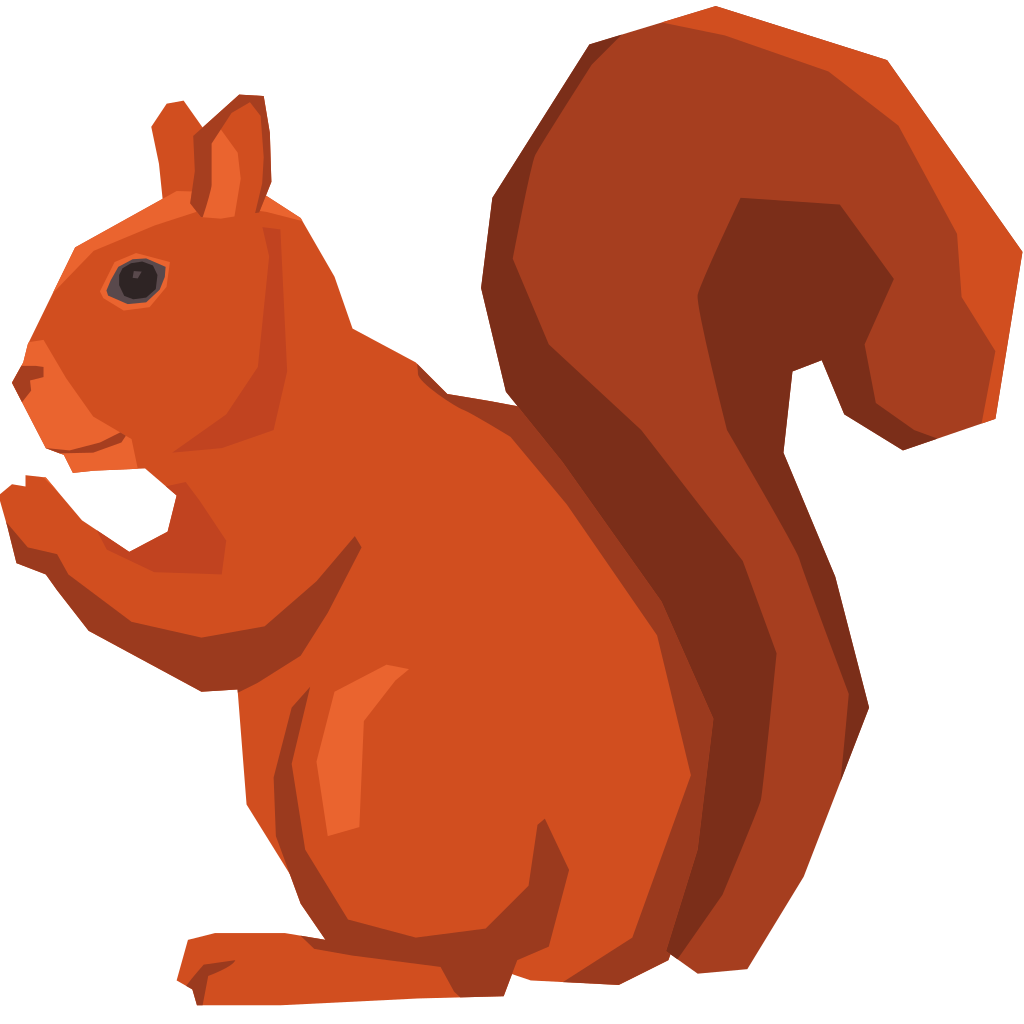
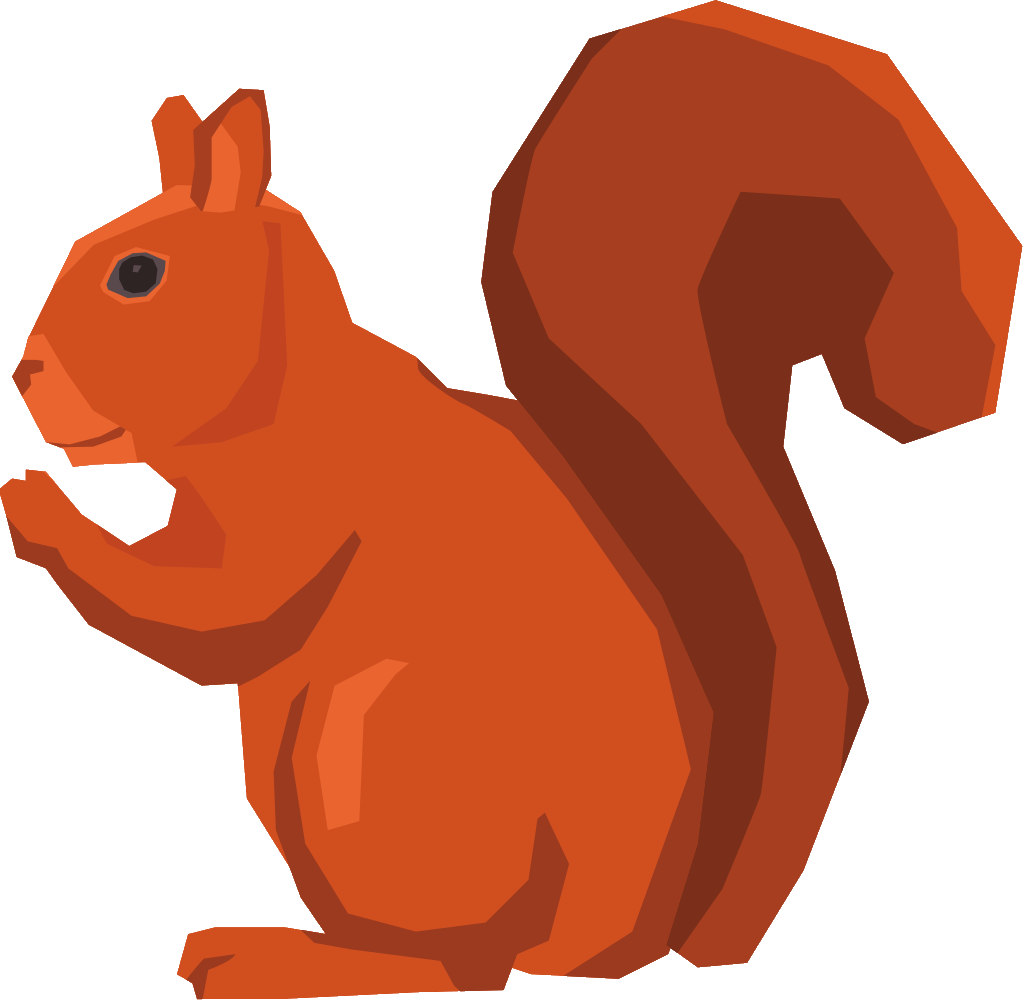
add labels, crop animals

diff --git a/script.js b/script.js
@@ -14,6 +14,12 @@ const debug = document.querySelector("#debug");
 let tiles = {};
 let boards = {};
 
+
+if ('serviceWorker' in navigator) {
+   navigator.serviceWorker.register("/serviceworker.js");
+}
+
+
 class Tile {
     constructor(jsonData) {
         this.face = jsonData["face"];
@@ -91,8 +97,12 @@ function fillBoard(board) {
 
         tileDom.innerHTML = null;
 
+        let tile_title = tileObj.title.replace(/_/g, ' ');
+        tile_title = tile_title.charAt(0).toUpperCase() + tile_title.slice(1);
+
         tileDom.innerHTML = `
 			<img class="tab-img" src="${tileObj.face}">
+			<div class="tile-title">${tile_title}</div>
 			<video loop muted>
 				<source src="${tileObj.clips[0]}" type="video/mp4">
 			</video>
@@ -204,16 +214,20 @@ function positionTileAbsolute(tile) {
     tile.style.margin = 0;
 }
 
-function handleBoardSelection(event) {
-    localStorage.setItem("board-" + event.target.name, event.target.checked);
+function handleBoardSelection(checkbox, boardId, checkboxType) {
+    // Save the checkbox state in localStorage based on boardId and checkboxType
+    localStorage.setItem("board-" + boardId + "-" + checkboxType, checkbox.checked);
+
+    // Call the function that updates the navbar
     fillNavbar();
 }
+
 
 function fillNavbar() {
     navBoards.innerHTML = null;
     let isEnabled;
     for (const [name, board] of Object.entries(boards)) {
-        isEnabled = localStorage.getItem("board-" + name);
+        isEnabled = localStorage.getItem("board-" + name + "-enabled");
         if (isEnabled === "true") {
             navBoards.innerHTML += `
 				<div class="tab-button" data-board="${name}">
@@ -230,6 +244,17 @@ function fillNavbar() {
             }
             const currentBoard = boards[button.getAttribute("data-board")];
             constructBoard(currentBoard.tiles.length);
+            isLabeled = localStorage.getItem("board-" + button.getAttribute("data-board") + "-labels");
+
+            if (isLabeled === "true") {
+                boardDom.classList.add("has-labels");
+                debug.innerText = "is labeled";
+            } else {
+                boardDom.classList.remove("has-labels");
+                debug.innerText = "is not labeled";
+            }
+
+
             tileGrid = document.querySelectorAll(".tile");
             positionTilesAll(currentBoard.tiles.length);
             fillBoard(currentBoard);
@@ -268,10 +293,19 @@ async function main() {
     });
 
     boardSelectCheckboxes.forEach(checkbox => {
-        if (localStorage.getItem("board-" + checkbox.id) === "true") {
+        // Determine whether the checkbox is for "Enabled" or "Labels"
+        const checkboxType = checkbox.id.includes("_enabled") ? "enabled" : "labels";
+        const boardId = checkbox.id.split("_")[0]; // Extract the board ID
+
+        // Set the checkbox state from localStorage if it's stored
+        if (localStorage.getItem("board-" + boardId + "-" + checkboxType) === "true") {
             checkbox.checked = true;
         }
-        checkbox.addEventListener("change", handleBoardSelection);
+
+        // Add an event listener for changes
+        checkbox.addEventListener("change", () => {
+            handleBoardSelection(checkbox, boardId, checkboxType);
+        });
     });
 
     fillNavbar();

diff --git a/style.css b/style.css
@@ -1,10 +1,22 @@
 :root {
-	--nav-color: #404040;
+	--nav-color: #323232;
 	--tile-color: cornflowerblue;
 
 	--row-count: 4;
 	--col-count: 6;
+
+	--color-a: #57808b;
+	--color-b: #31638b;
+	--tile-outline: #d8d8d8;
+	--tile-label: #ffffff40;
 }
+
+@font-face {
+  font-family: "fredoka";
+  font-weight: 500;
+  src: url("/assets/fredoka.ttf") format("truetype");
+}
+
 
 body {
 	margin: 0;
@@ -13,8 +25,6 @@ body {
 }
 
 main {
-	--color-a: #57808b;
-	--color-b: #31638b;
 
 	background: repeating-linear-gradient(45deg, var(--color-a), var(--color-a) 20px, var(--color-b) 20px, var(--color-b) 40px);
 	width: 100vw;
@@ -39,8 +49,7 @@ main {
 	grid-row-gap: 0px;
 
 
-	--color-a: #57808b;
-	--color-b: #31638b;
+
 	background: repeating-linear-gradient(45deg, var(--color-a), var(--color-a) 20px, var(--color-b) 20px, var(--color-b) 40px);
 
 
@@ -54,13 +63,15 @@ main {
 	height: auto;
 
 	margin: 4px;
-	border: 2px solid white;
+	border: 2px solid var(--tile-outline);
 	border-radius: 8px;
 	background-color: var(--tile-color);
 	box-sizing: border-box;
 	position: relative;
 
-	display: grid;
+	display: flex;
+	align-items: center;
+	flex-direction: column-reverse;
 
 	transform: rotateY(0deg);
 	transition: width 1s, height 1s, left 1s, top 1s, transform 0.5s;
@@ -227,4 +238,37 @@ nav {
 
 .disabled {
 	pointer-events: none !important;
+}
+
+#board.has-labels .tile-title {
+	display: block;
+}
+
+#board.has-labels img {
+	height: calc(100% - 1.5em);
+	top: 0;
+}
+
+#board.has-labels .tile:not(.flipped) {
+	overflow: hidden;
+}
+
+#board.has-labels .tile.flipped .tile-title {
+	display: none;
+}
+
+#board .tile-title {
+	display: none;
+
+	position: absolute;
+	font-size: min(1.5em, 4vw);
+	text-align: center;
+	overflow: hidden;
+	max-width: 100%;
+	width: 100%;
+	margin-bottom: 2px;
+
+	background-color: var(--tile-label);
+	box-shadow: 0 0 4px 4px var(--tile-label);
+	font-family: "fredoka";
 }

diff --git a/index.php b/index.php
@@ -11,6 +11,7 @@ function generateTilesJson() {
 
 		$tileData = []; // json_decode(file_get_contents($fullTileDir . "/tile.json"), true);
 
+		$tileData["title"] = $tileDir;
 		$tileData["face"] = "/" . $fullTileDir . "/face.png";
 		$tileData["clips"] = [];
 
@@ -94,8 +95,15 @@ file_put_contents("boards.json", json_encode(generateBoardsJson()));
 						if ($boardDir === '.' || $boardDir === '..') {} else {
 							$boardData = json_decode(file_get_contents("boards/" . $boardDir), true);
 							$boardId = explode(".", $boardDir)[0];
-							?><input type="checkbox" id="<?php echo $boardId; ?>" name="<?php echo $boardId; ?>"><?php
-							?><label for="<?php echo $boardId; ?>"><?php echo $boardData["title"]; ?></label><br><?php
+
+							echo '<label>' . $boardData["title"] . '</label><br>';
+							echo '<input type="checkbox" id="' . $boardId . '_enabled" name="' . $boardId . '[enabled]">';
+							echo '<label for="' . $boardId . '_enabled">Enabled</label><br>';
+
+							// "Labels" checkbox
+							echo '<input type="checkbox" id="' . $boardId . '_labels" name="' . $boardId . '[labels]">';
+							echo '<label for="' . $boardId . '_labels">Labels</label><br><br>';
+
 						}
 					}
 				?>

diff --git a/README.md b/README.md
@@ -1,15 +1,16 @@
 # Pictureboard
 
 ## todo
-- crop animals
-- compress videos
+- ~~crop animals~~
+- ~~compress videos~~
 - add manifest / other pwa things
 - add more boards
 - fix ipad css
 - ~~implement multiple size boards~~
 - lock navbar on hold
-- improve aesthetics
-- name tiles
-- add tile label display option
+- ~~improve aesthetics~~
+- ~~name tiles~~
+- ~~add tile label display option~~
 - add proper attribution
 - make your own boards / tiles?
+- rework display to use canvas (maybe use a library?)
